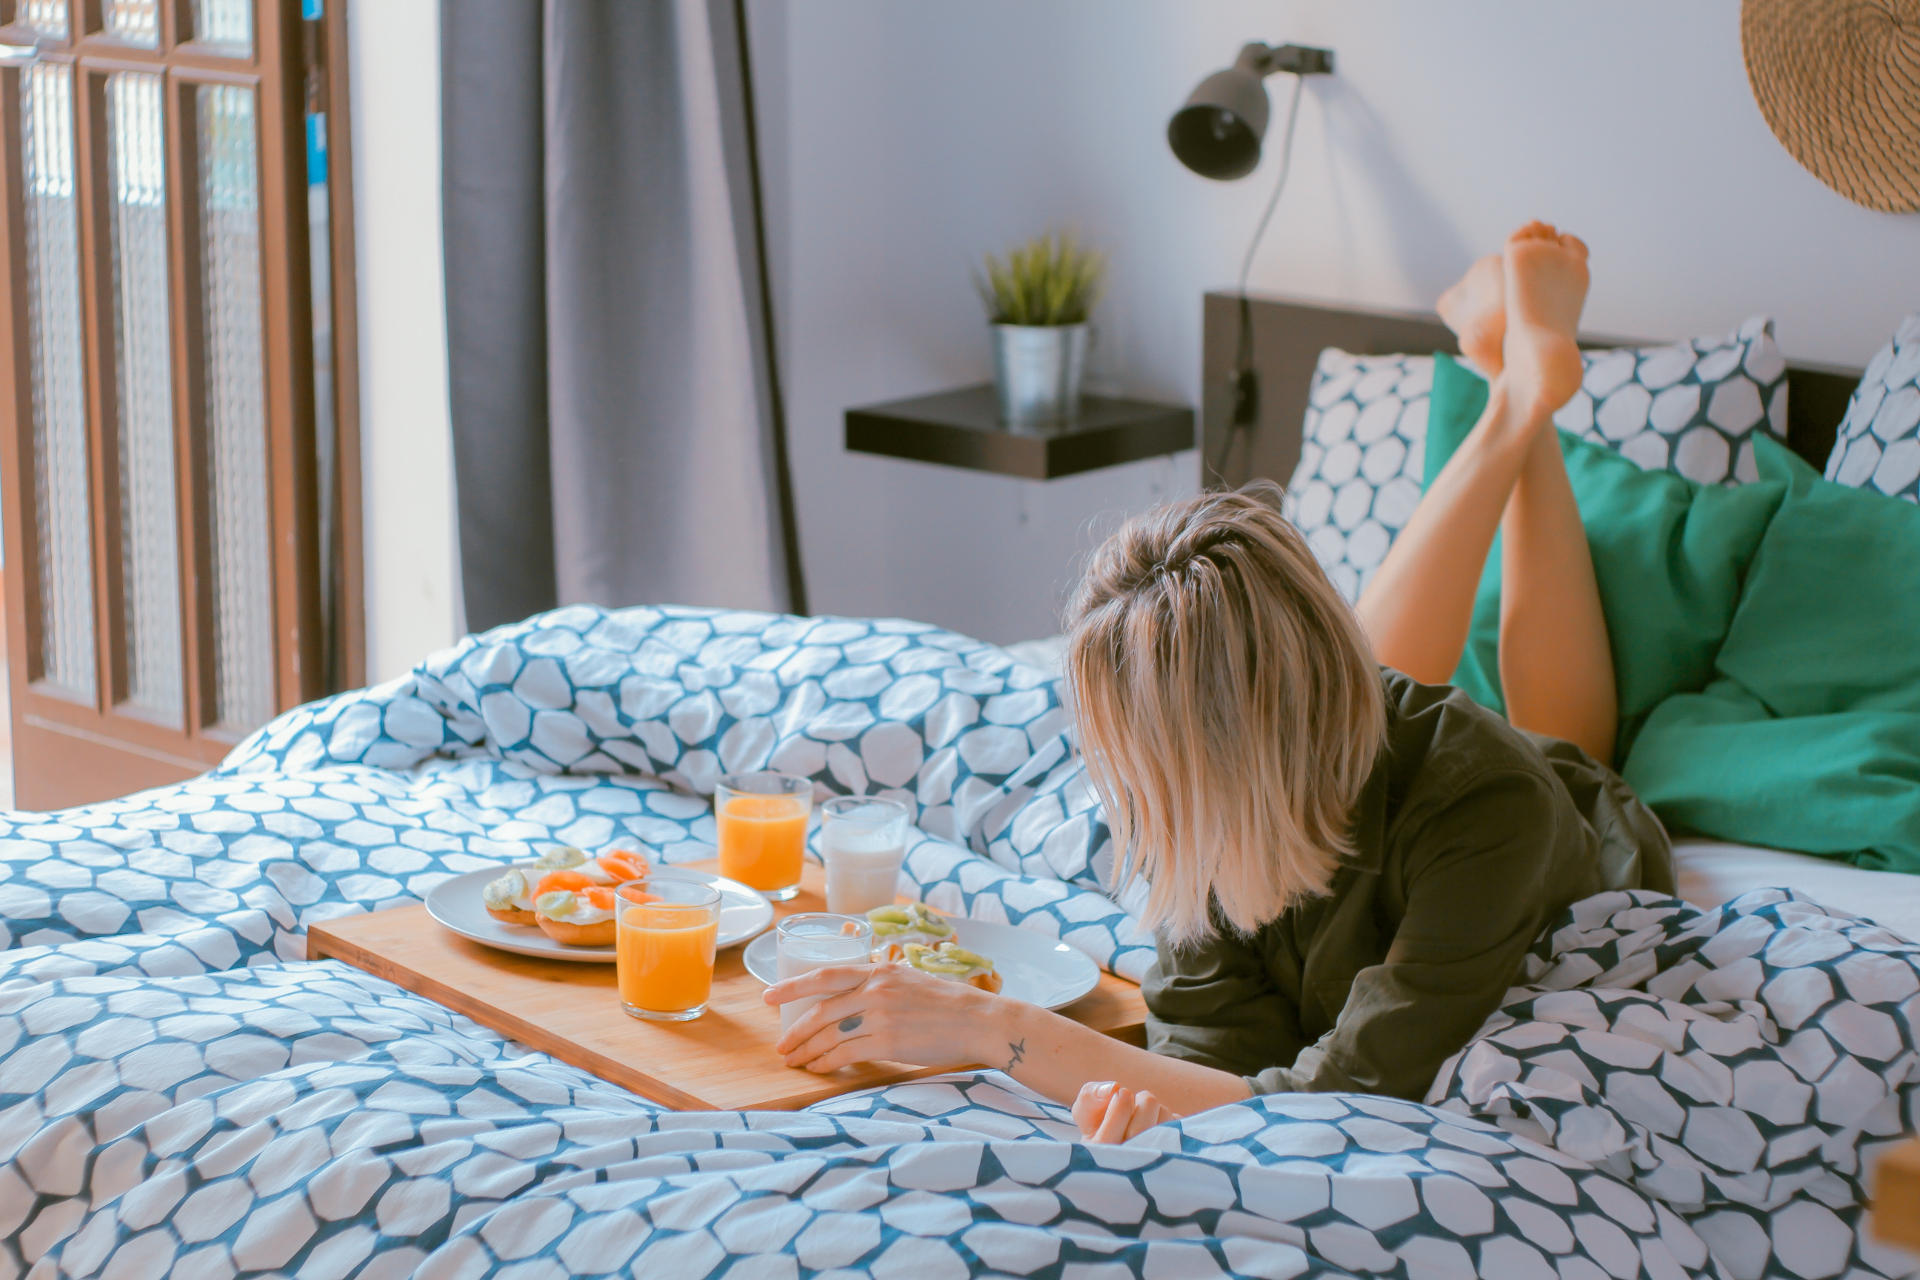
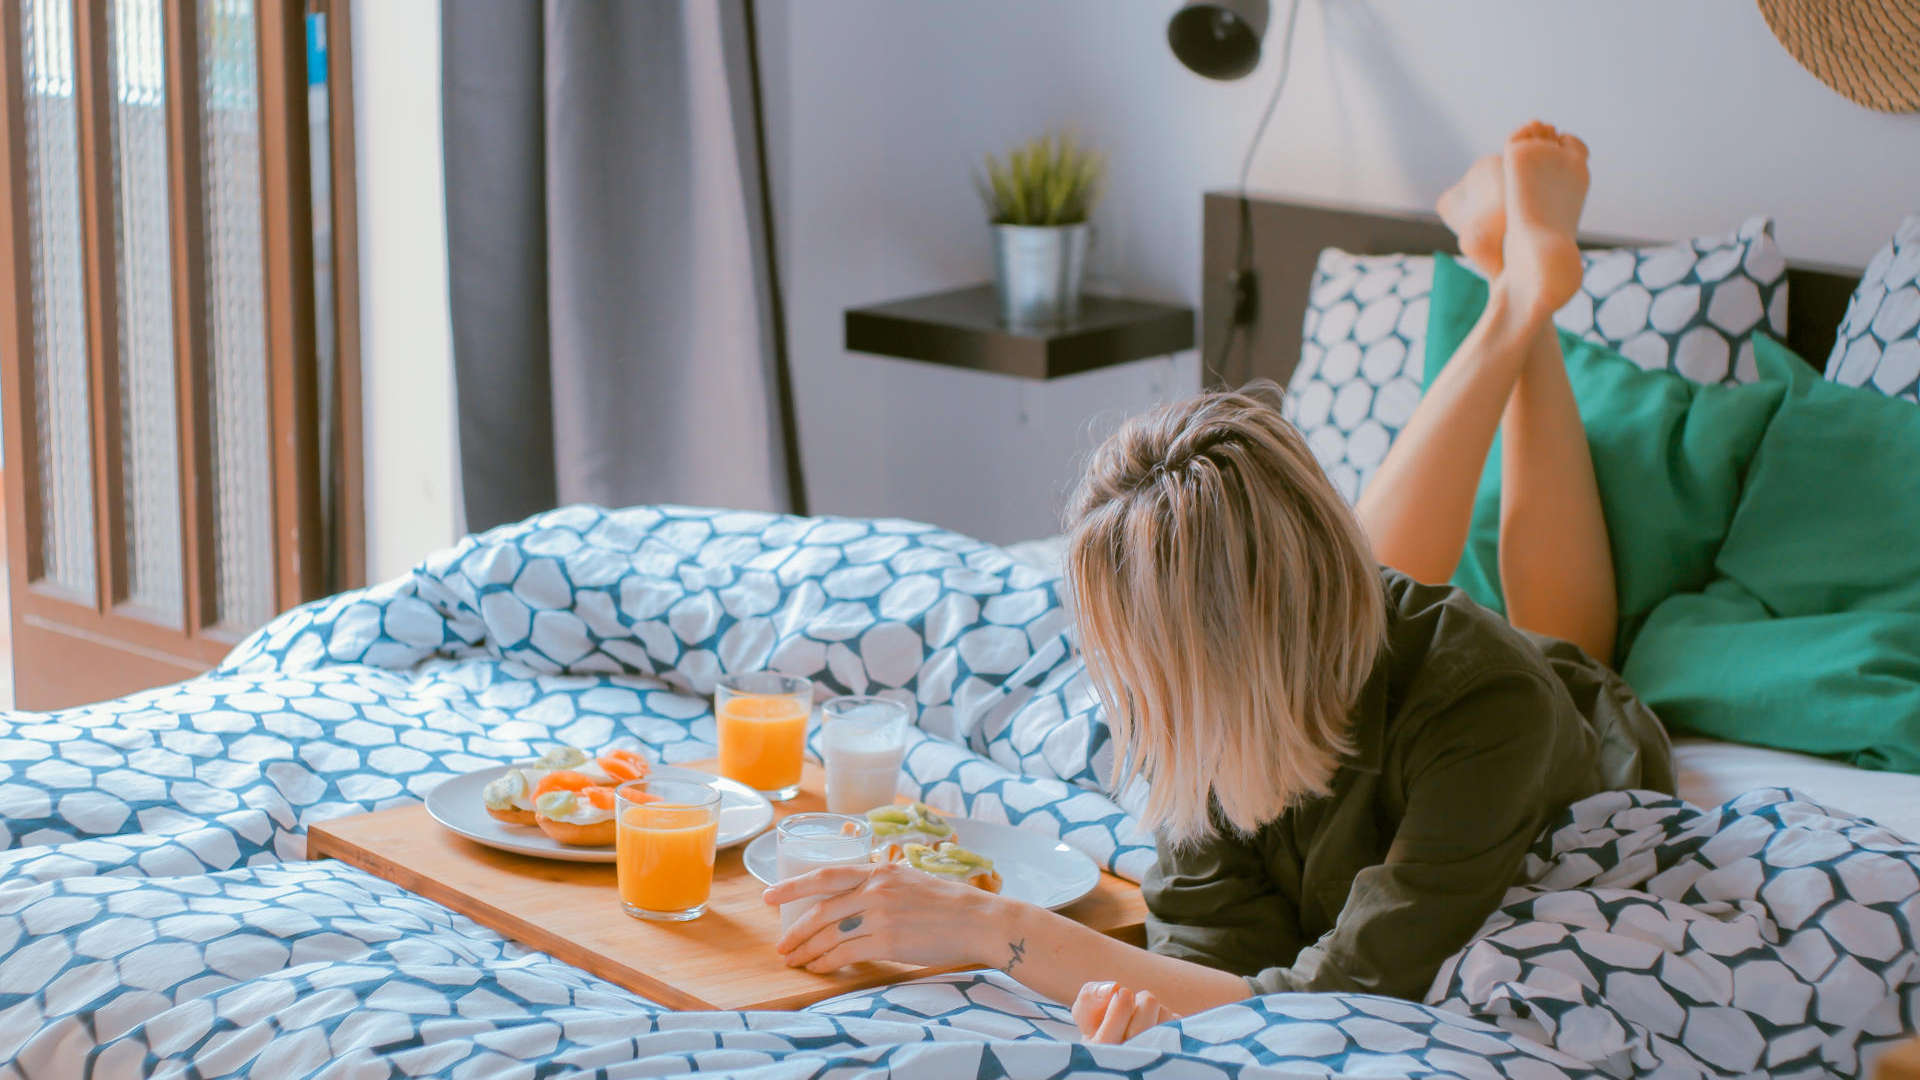
Redimensiono imagen

diff --git a/_sass/twd-jt-inmobiliaria-teresa/banner.scss b/_sass/twd-jt-inmobiliaria-teresa/banner.scss
@@ -1,7 +1,7 @@
 .page #banner {
   height: 0;
   overflow: hidden;
-  padding-top: 1280px / 1920px * 100%;
+  padding-top: 1080px / 1920px * 100%;
   background: white;
   position: relative;
     background-image: url('/assets/images/front-background.jpg');
